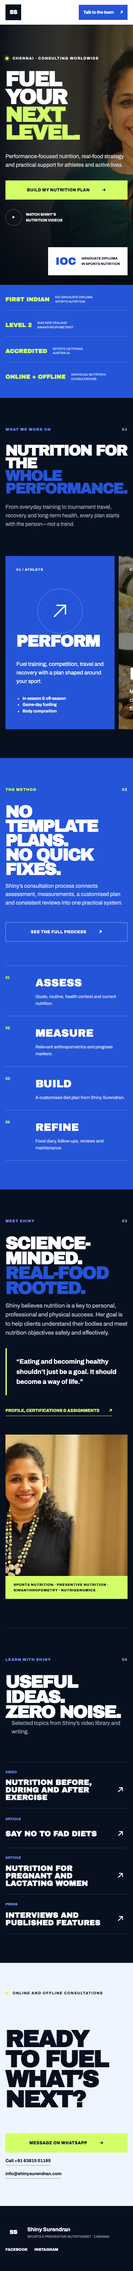
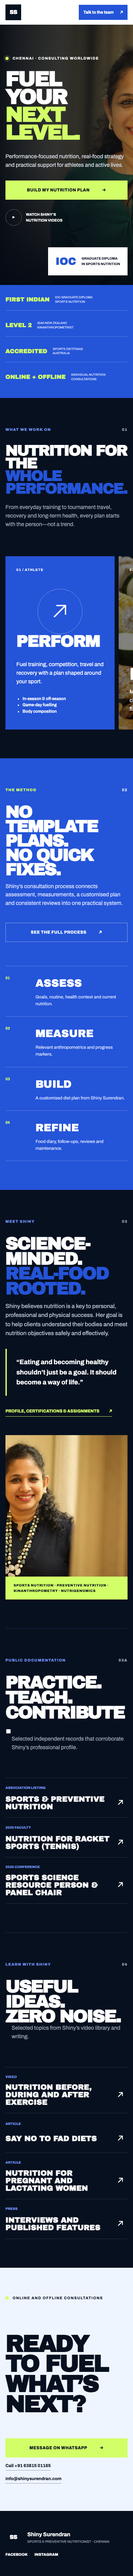
feat: add verified public profile documentation

diff --git a/concept-02/index.html b/concept-02/index.html
@@ -106,6 +106,16 @@
       </div>
     </section>
 
+    <section class="media section public-record" id="documentation">
+      <div class="kicker">Public documentation <span>03A</span></div>
+      <div class="media-heading"><h2>Practice.<br>Teach.<br>Contribute.</h2><p>Selected independent records that corroborate Shiny’s professional profile.</p></div>
+      <div class="media-list">
+        <a href="https://asnfs.org/about/" target="_blank" rel="noreferrer"><span>Association listing</span><strong>Sports &amp; preventive nutrition</strong><i aria-hidden="true">↗</i></a>
+        <a href="https://asnfs.org/wp-content/uploads/Batch-6-Faculty-Brochure-2025.pdf" target="_blank" rel="noreferrer"><span>2025 faculty</span><strong>Nutrition for racket sports (tennis)</strong><i aria-hidden="true">↗</i></a>
+        <a href="https://digicampus.sriramachandra.edu.in/uploads/iqac_workshopconducts/2025-07-11011235FINAL%20PROGRAM.pdf" target="_blank" rel="noreferrer"><span>2025 conference</span><strong>Sports science resource person &amp; panel chair</strong><i aria-hidden="true">↗</i></a>
+      </div>
+    </section>
+
     <section class="media section" id="media">
       <div class="kicker">Learn with Shiny <span>04</span></div>
       <div class="media-heading"><h2>Useful ideas.<br>Zero noise.</h2><p>Selected topics from Shiny’s video library and writing.</p></div>

diff --git a/concept-05/index.html b/concept-05/index.html
@@ -126,6 +126,16 @@
       </div>
     </section>
 
+    <section class="media section public-record" id="documentation">
+      <div class="kicker">Public documentation <span>03A</span></div>
+      <div class="media-heading"><h2>Practice.<br>Teach.<br>Contribute.</h2><p>Selected independent records that corroborate Shiny’s professional profile.</p></div>
+      <div class="media-list">
+        <a href="https://asnfs.org/about/" target="_blank" rel="noreferrer"><span>Association listing</span><strong>Sports &amp; preventive nutrition</strong><i aria-hidden="true">↗</i></a>
+        <a href="https://asnfs.org/wp-content/uploads/Batch-6-Faculty-Brochure-2025.pdf" target="_blank" rel="noreferrer"><span>2025 faculty</span><strong>Nutrition for racket sports (tennis)</strong><i aria-hidden="true">↗</i></a>
+        <a href="https://digicampus.sriramachandra.edu.in/uploads/iqac_workshopconducts/2025-07-11011235FINAL%20PROGRAM.pdf" target="_blank" rel="noreferrer"><span>2025 conference</span><strong>Sports science resource person &amp; panel chair</strong><i aria-hidden="true">↗</i></a>
+      </div>
+    </section>
+
     <section class="provider-section" id="proof">
       <div class="provider-section-heading"><span>Track record</span><h2>Performance work backed by teaching, standards and practice.</h2></div>
       <div class="provider-proof-grid">

diff --git a/concept-02/styles.css b/concept-02/styles.css
@@ -101,6 +101,7 @@ blockquote { margin: 32px 0; padding: 24px 0 24px 28px; border-left: 4px solid v
 .media-heading { margin-top: 34px; display: grid; grid-template-columns: 1fr 1fr; align-items: end; }
 .media-heading h2 { font-size: clamp(56px, 7vw, 104px); }
 .media-heading p { max-width: 340px; margin: 0 0 12px auto; color: var(--muted); }
+.public-record .media-heading h2 { overflow-wrap: anywhere; }
 .media-list { margin-top: 64px; border-top: 1px solid #26324a; }
 .media-list a { min-height: 116px; padding: 20px 0; display: grid; grid-template-columns: .25fr 1fr 40px; gap: 30px; align-items: center; border-bottom: 1px solid #26324a; }
 .media-list a:hover strong { color: var(--lime); }
@@ -186,6 +187,8 @@ footer nav { display: flex; gap: 20px; font-size: 11px; font-weight: 800; text-t
   .proof-strip, .method, .cta, footer { padding-inline: 8px; }
   .proof-strip { padding-block: 24px; }
   .section { width: calc(100% - 16px); padding: 56px 0; }
+  .public-record .kicker { justify-content: flex-start; gap: 5px; font-size: 8px; letter-spacing: .06em; }
+  .public-record .kicker span { flex: 0 0 auto; font-size: 7px; }
   .program-track { margin-right: 0; grid-template-columns: 1fr; overflow: visible; }
   .program-card { min-height: 260px; padding: 16px; }
   .card-blue .line-icon { width: 96px; height: 96px; margin-top: 28px; font-size: 44px; }

diff --git a/concept-05/styles.css b/concept-05/styles.css
@@ -101,6 +101,7 @@ blockquote { margin: 32px 0; padding: 24px 0 24px 28px; border-left: 4px solid v
 .media-heading { margin-top: 34px; display: grid; grid-template-columns: 1fr 1fr; align-items: end; }
 .media-heading h2 { font-size: clamp(56px, 7vw, 104px); }
 .media-heading p { max-width: 340px; margin: 0 0 12px auto; color: var(--muted); }
+.public-record .media-heading h2 { overflow-wrap: anywhere; }
 .media-list { margin-top: 64px; border-top: 1px solid #26324a; }
 .media-list a { min-height: 116px; padding: 20px 0; display: grid; grid-template-columns: .25fr 1fr 40px; gap: 30px; align-items: center; border-bottom: 1px solid #26324a; }
 .media-list a:hover strong { color: var(--lime); }
@@ -186,6 +187,8 @@ footer nav { display: flex; gap: 20px; font-size: 11px; font-weight: 800; text-t
   .proof-strip, .method, .cta, footer { padding-inline: 8px; }
   .proof-strip { padding-block: 24px; }
   .section { width: calc(100% - 16px); padding: 56px 0; }
+  .public-record .kicker { justify-content: flex-start; gap: 5px; font-size: 8px; letter-spacing: .06em; }
+  .public-record .kicker span { flex: 0 0 auto; font-size: 7px; }
   .program-track { margin-right: 0; grid-template-columns: 1fr; overflow: visible; }
   .program-card { min-height: 260px; padding: 16px; }
   .card-blue .line-icon { width: 96px; height: 96px; margin-top: 28px; font-size: 44px; }

diff --git a/concept-01/index.html b/concept-01/index.html
@@ -71,6 +71,19 @@
       </div>
     </section>
 
+    <section class="insights section public-record" id="documentation">
+      <div class="section-label"><span>01A</span> Public documentation</div>
+      <div class="insights-heading">
+        <h2>Practice, teaching and field contribution.</h2>
+        <p>Selected independent records that corroborate Shiny’s professional profile.</p>
+      </div>
+      <div class="insight-grid">
+        <a href="https://asnfs.org/about/" target="_blank" rel="noreferrer"><span>Association listing</span><h3>Sports &amp; preventive nutrition</h3><b aria-hidden="true">↗</b></a>
+        <a href="https://asnfs.org/wp-content/uploads/Batch-6-Faculty-Brochure-2025.pdf" target="_blank" rel="noreferrer"><span>2025 faculty</span><h3>Nutrition for racket sports (tennis)</h3><b aria-hidden="true">↗</b></a>
+        <a href="https://digicampus.sriramachandra.edu.in/uploads/iqac_workshopconducts/2025-07-11011235FINAL%20PROGRAM.pdf" target="_blank" rel="noreferrer"><span>2025 conference</span><h3>Sports science resource person &amp; panel chair</h3><b aria-hidden="true">↗</b></a>
+      </div>
+    </section>
+
     <section class="expertise section" id="expertise">
       <div class="section-label light"><span>02</span> Expertise</div>
       <div class="expertise-intro">

diff --git a/concept-04/index.html b/concept-04/index.html
@@ -91,6 +91,19 @@
       </div>
     </section>
 
+    <section class="insights section public-record" id="documentation">
+      <div class="section-label"><span>01A</span> Public documentation</div>
+      <div class="insights-heading">
+        <h2>Practice, teaching and field contribution.</h2>
+        <p>Selected independent records that corroborate Shiny’s professional profile.</p>
+      </div>
+      <div class="insight-grid">
+        <a href="https://asnfs.org/about/" target="_blank" rel="noreferrer"><span>Association listing</span><h3>Sports &amp; preventive nutrition</h3><b aria-hidden="true">↗</b></a>
+        <a href="https://asnfs.org/wp-content/uploads/Batch-6-Faculty-Brochure-2025.pdf" target="_blank" rel="noreferrer"><span>2025 faculty</span><h3>Nutrition for racket sports (tennis)</h3><b aria-hidden="true">↗</b></a>
+        <a href="https://digicampus.sriramachandra.edu.in/uploads/iqac_workshopconducts/2025-07-11011235FINAL%20PROGRAM.pdf" target="_blank" rel="noreferrer"><span>2025 conference</span><h3>Sports science resource person &amp; panel chair</h3><b aria-hidden="true">↗</b></a>
+      </div>
+    </section>
+
     <section class="expertise section" id="expertise">
       <div class="section-label light"><span>02</span> Expertise</div>
       <div class="expertise-intro">

diff --git a/concept-06/index.html b/concept-06/index.html
@@ -118,6 +118,15 @@
       </div>
     </section>
 
+    <section class="notes section public-record" id="documentation">
+      <div class="notes-heading"><p class="overline">Public documentation</p><h2>Practice, teaching and contribution.</h2></div>
+      <div class="note-grid">
+        <a href="https://asnfs.org/about/" target="_blank" rel="noreferrer"><span>Association listing</span><h3>Sports &amp; preventive nutrition</h3><b>Open ASNFS record ↗</b></a>
+        <a href="https://asnfs.org/wp-content/uploads/Batch-6-Faculty-Brochure-2025.pdf" target="_blank" rel="noreferrer"><span>2025 faculty</span><h3>Nutrition for racket sports (tennis)</h3><b>Open faculty brochure ↗</b></a>
+        <a href="https://digicampus.sriramachandra.edu.in/uploads/iqac_workshopconducts/2025-07-11011235FINAL%20PROGRAM.pdf" target="_blank" rel="noreferrer"><span>2025 conference</span><h3>Sports science resource person &amp; panel chair</h3><b>Open conference programme ↗</b></a>
+      </div>
+    </section>
+
     <section class="provider-section" id="proof">
       <div class="provider-section-heading"><span>Experience and contribution</span><h2>A long view of nutrition—from elite sport to everyday health.</h2></div>
       <div class="provider-proof-grid">

diff --git a/concept-03/index.html b/concept-03/index.html
@@ -103,6 +103,15 @@
       </div>
     </section>
 
+    <section class="notes section public-record" id="documentation">
+      <div class="notes-heading"><p class="overline">Public documentation</p><h2>Practice, teaching and contribution.</h2></div>
+      <div class="note-grid">
+        <a href="https://asnfs.org/about/" target="_blank" rel="noreferrer"><span>Association listing</span><h3>Sports &amp; preventive nutrition</h3><b>Open ASNFS record ↗</b></a>
+        <a href="https://asnfs.org/wp-content/uploads/Batch-6-Faculty-Brochure-2025.pdf" target="_blank" rel="noreferrer"><span>2025 faculty</span><h3>Nutrition for racket sports (tennis)</h3><b>Open faculty brochure ↗</b></a>
+        <a href="https://digicampus.sriramachandra.edu.in/uploads/iqac_workshopconducts/2025-07-11011235FINAL%20PROGRAM.pdf" target="_blank" rel="noreferrer"><span>2025 conference</span><h3>Sports science resource person &amp; panel chair</h3><b>Open conference programme ↗</b></a>
+      </div>
+    </section>
+
     <section class="notes section">
       <div class="notes-heading"><p class="overline">From Shiny’s library</p><h2>Food for thought.</h2></div>
       <div class="note-grid">

diff --git a/concept-01/styles.css b/concept-01/styles.css
@@ -176,6 +176,8 @@ footer address { color: #5e5b62; font-size: 14px; font-style: normal; }
   .credential-card p { font-size: 11px; }
   .trust-rail { margin-top: 16px; padding: 12px 8px; }
   .trust-rail { justify-content: flex-start; flex-wrap: wrap; gap: 6px; overflow: visible; white-space: normal; }
+  .public-record .section-label { gap: 8px; font-size: 8px; letter-spacing: .08em; }
+  .public-record .section-label span { flex: 0 0 26px; width: 26px; height: 26px; font-size: 8px; }
   .section { padding: 56px 0; }
   .service-card, .insight-grid a { min-height: 190px; padding: 16px; }
   .process-list li { grid-template-columns: 28px minmax(0, 1fr); gap: 8px; }

diff --git a/concept-04/styles.css b/concept-04/styles.css
@@ -176,6 +176,8 @@ footer address { color: #5e5b62; font-size: 14px; font-style: normal; }
   .credential-card p { font-size: 11px; }
   .trust-rail { margin-top: 16px; padding: 12px 8px; }
   .trust-rail { justify-content: flex-start; flex-wrap: wrap; gap: 6px; overflow: visible; white-space: normal; }
+  .public-record .section-label { gap: 8px; font-size: 8px; letter-spacing: .08em; }
+  .public-record .section-label span { flex: 0 0 26px; width: 26px; height: 26px; font-size: 8px; }
   .section { padding: 56px 0; }
   .service-card, .insight-grid a { min-height: 190px; padding: 16px; }
   .process-list li { grid-template-columns: 28px minmax(0, 1fr); gap: 8px; }
